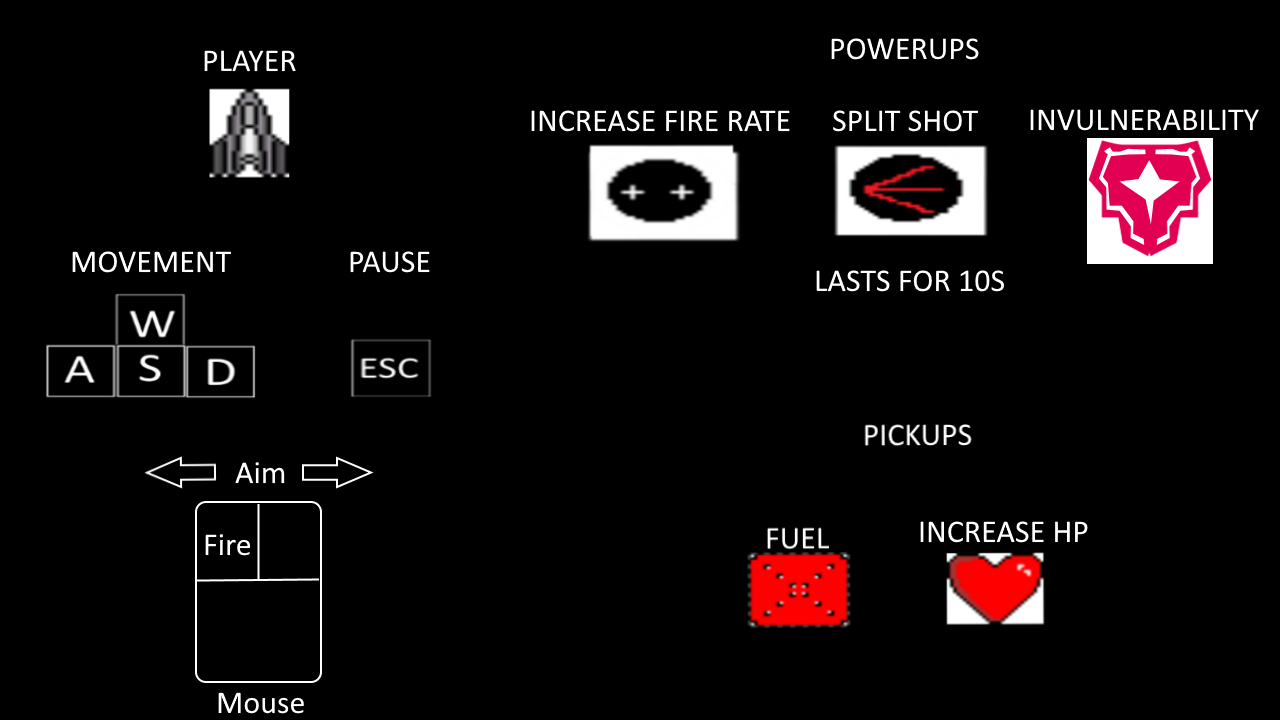
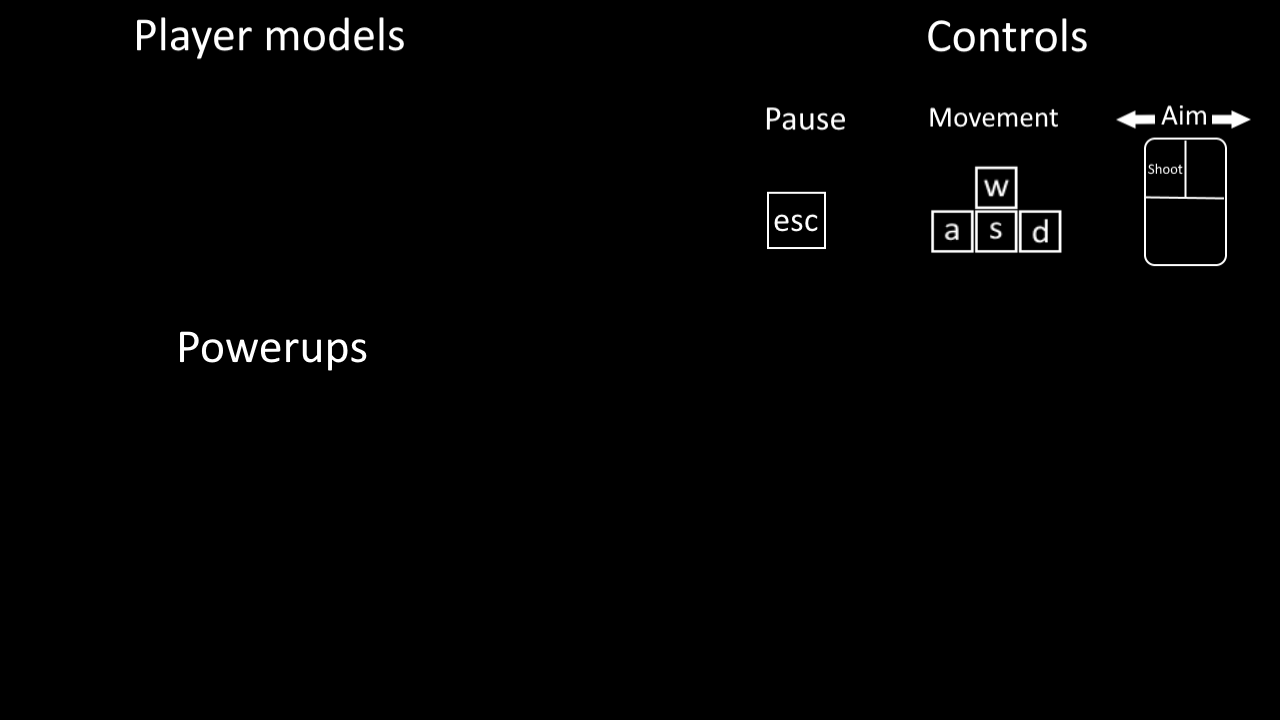
some file renaming and redesigning page1 of help

diff --git a/src/asteroids/help.c b/src/asteroids/help.c
@@ -31,10 +31,13 @@
 #define respawnTimer 2
 #define FIRST_PAGE 0
 #define LAST_PAGE 5
-
+#define MODEL_COUNT 6
+#define POWERUP_COUNT 5
 Help_screen screen;
 
 CP_Image Page_Image[LAST_PAGE];
+CP_Image playerModel[MODEL_COUNT];
+CP_Image powerupModel[POWERUP_COUNT];
 
 CP_Image Display;
 
@@ -60,6 +63,20 @@ void Asteroids_Help_Screen_Init(void)
 		char path[100];
 		sprintf_s(path, 100, "./Assets/Control_screen%d.png", i);
 		Page_Image[i] = CP_Image_Load(path);
+	}
+
+	for (int i = 0; i < MODEL_COUNT; i++)
+	{
+		char spritePath[100];
+		sprintf_s(spritePath, 100, "./Assets/Spaceship%d.png", i +1);
+		playerModel[i] = CP_Image_Load(spritePath);
+	}
+
+	for (unsigned int i = 0; i < POWERUP_COUNT; i++)
+	{
+		char spritePath[100];
+		sprintf_s(spritePath, 100, "./Assets/powerup_sprite%d.png", i + 1);
+		powerupModel[i] = CP_Image_Load(spritePath);
 	}
 
 	Display = CP_Image_Load("./Assets/newasteroids.png");
@@ -132,37 +149,61 @@ void Asteroids_Draw_Screen_Page(void)
 	if (screen.overlay < LAST_PAGE -1)
 		Asteroids_Button_Update(&NextBtn);
 
-	Asteroids_Help_Draw_Obstacle_Screen();
-	Asteroids_Help_Draw_FinalBoss_Screen();
+
+	switch (screen.overlay)
+	{
+	case CONTROLS:
+		Asteroids_Help_Draw_Controls_Screen();
+		break;
+	case OBSTACLES:
+		Asteroids_Help_Draw_Obstacle_Screen();
+		break;
+	case FINALBOSS:
+		Asteroids_Help_Draw_FinalBoss_Screen();
+		break;
+	default:
+		break;
+	}
 }
 void Asteroids_Help_Draw_Obstacle_Screen(void)
 {
-	if (screen.overlay == OBSTACLES)
+	if (Blackhole.active == false)
 	{
-		if (Blackhole.active == false)
-		{
-			Asteroids_Obstacle_Spawn_Tutorial(&Blackhole, ASTEROIDS_OBSTACLE_BLACKHOLE_SPEED, ASTEROIDS_OBSTACLE_BLACKHOLE_WIDTH,
-			ASTEROIDS_OBSTACLE_BLACKHOLE_WIDTH, CP_Vector_Set(0, (float)(WIN_HEIGHT / 3) - ASTEROIDS_OBSTACLE_BLACKHOLE_WIDTH));
-			Blackhole.Collider2.diameter = Blackhole.width;
-		}
-		if (GammaRay.active == false)
-		{
-			Asteroids_Obstacle_Spawn_Tutorial(&GammaRay, ASTEROIDS_OBSTACLE_GAMMARAY_SPEED, ASTEROIDS_OBSTACLE_GAMARAY_HEIGHT,
-				(float)(WIN_WIDTH / 4), CP_Vector_Set(0, (float)(WIN_HEIGHT / 3) + ASTEROIDS_OBSTACLE_GAMARAY_HEIGHT));
-			GammaRay.Collider.height = GammaRay.height;
-			GammaRay.Collider.width = GammaRay.width;
-		}
+		Asteroids_Obstacle_Spawn_Tutorial(&Blackhole, ASTEROIDS_OBSTACLE_BLACKHOLE_SPEED, ASTEROIDS_OBSTACLE_BLACKHOLE_WIDTH,
+		ASTEROIDS_OBSTACLE_BLACKHOLE_WIDTH, CP_Vector_Set(0, (float)(WIN_HEIGHT / 3) - ASTEROIDS_OBSTACLE_BLACKHOLE_WIDTH));
+		Blackhole.Collider2.diameter = Blackhole.width;
+	}
+	if (GammaRay.active == false)
+	{
+		Asteroids_Obstacle_Spawn_Tutorial(&GammaRay, ASTEROIDS_OBSTACLE_GAMMARAY_SPEED, ASTEROIDS_OBSTACLE_GAMARAY_HEIGHT,
+			(float)(WIN_WIDTH / 4), CP_Vector_Set(0, (float)(WIN_HEIGHT / 3) + ASTEROIDS_OBSTACLE_GAMARAY_HEIGHT));
+		GammaRay.Collider.height = GammaRay.height;
+		GammaRay.Collider.width = GammaRay.width;
+	}
 
-		Asteroids_Help_Update_Obstacle_Pos(&Blackhole, CP_System_GetDt());
-		Asteroids_Help_Update_Obstacle_Pos(&GammaRay, CP_System_GetDt());
-		Asteroids_Help_Update_Enemies();
-		particle_update();
-		Asteroids_Particle_Draw_Dot();
+	Asteroids_Help_Update_Obstacle_Pos(&Blackhole, CP_System_GetDt());
+	Asteroids_Help_Update_Obstacle_Pos(&GammaRay, CP_System_GetDt());
+	Asteroids_Help_Update_Enemies();
+	particle_update();
+	Asteroids_Particle_Draw_Dot();
+	Asteroids_Draw_Obstacle(&Blackhole);
+	Asteroids_Draw_Obstacle(&GammaRay);
+	Asteroids_Help_Sreen_Draw_Warning();
+	Asteroids_Help_Menu_Spawn_Static_Enemies();
+}
 
-		Asteroids_Draw_Obstacle(&Blackhole);
-		Asteroids_Draw_Obstacle(&GammaRay);
-		Asteroids_Help_Sreen_Draw_Warning();
-		Asteroids_Help_Menu_Spawn_Static_Enemies();
+void Asteroids_Help_Draw_Controls_Screen(void)
+{
+	static float rotation = 0;
+	static float rotation_rate = 20.0f;
+	rotation += (rotation_rate * CP_System_GetDt());
+	for (int i = 0; i < MODEL_COUNT; i++)
+	{
+		CP_Image_DrawAdvanced(playerModel[i], 50.0f + (125.0f * i), 150.0f, 100, 100, 255, rotation);
+	}
+	for (int i = 0; i < POWERUP_COUNT; i++)
+	{
+		CP_Image_DrawAdvanced(powerupModel[i], 100.0f + (75.0f * i), 500.0f, 50, 50, 255, rotation);
 	}
 }
 
@@ -184,8 +225,7 @@ void Asteroids_Help_Update_Enemies(void)
 
 void Asteroids_Help_Draw_FinalBoss_Screen(void)
 {
-	if (screen.overlay == FINALBOSS)
-		Asteroids_Help_Draw_FinalBoss_Spawn_Animation();
+	Asteroids_Help_Draw_FinalBoss_Spawn_Animation();
 }
 void Asteroids_Help_Screen_IncreasePageNo(void)
 {

diff --git a/src/asteroids/powerups.c b/src/asteroids/powerups.c
@@ -59,14 +59,14 @@ void Asteroids_Init_Powerups(void) //Initialize variables
 	bullet_split = false;
 	BPM = false;
 
-	Powerup_Bulletsplit_Sprite = CP_Image_Load("./Assets/Powerup_Bullet_Split_Sprite.png");
-	Powerup_Recover_Hp_Sprite = CP_Image_Load("./Assets/Powerup_RecoverHealth_Sprite.png");
-	Powerup_Invulnerability_Sprite = CP_Image_Load("./Assets/Powerup_Invunerability_Sprite.png");
-	Powerup_Increase_BPM_Sprite = CP_Image_Load("./Assets/Powerup_Shootfaster_Sprite.png");
-	Powerup_Fuel_Pickup_Sprite = CP_Image_Load("./Assets/Powerup_Fuel_Pickup_Sprite.png");
+	Powerup_Bulletsplit_Sprite = CP_Image_Load("./Assets/powerup_sprite1.png");
+	Powerup_Recover_Hp_Sprite = CP_Image_Load("./Assets/powerup_sprite2.png");
+	Powerup_Invulnerability_Sprite = CP_Image_Load("./Assets/powerup_sprite3.png");
+	Powerup_Increase_BPM_Sprite = CP_Image_Load("./Assets/powerup_sprite4.png");
+	Powerup_Fuel_Pickup_Sprite = CP_Image_Load("./Assets/powerup_sprite5.png");
 
 
-	for (int i = 0; i < POWERUP_MAX_SIZE; i++) //initialize to prevent getting rubbish values
+	for (int i = 0; i < POWERUP_MAX_SIZE; i++)
 	{
 		powerup_pool[i].pos = CP_Vector_Zero();
 		powerup_pool[i].movement_Vel = CP_Vector_Zero();

diff --git a/src/asteroids/help.h b/src/asteroids/help.h
@@ -31,6 +31,8 @@ void Asteroids_Help_Draw_Obstacle_Screen(void);
 void Asteroids_Help_Draw_FinalBoss_Screen(void);
 void Asteroids_Help_Draw_FinalBoss_Spawn_Animation(void);
 
+void Asteroids_Help_Draw_Controls_Screen(void);
+
 void Asteroids_Help_Screen_IncreasePageNo(void);
 void Asteroids_Help_Screen_DecreasePageNo(void);
 void Asteroids_Help_Sreen_Draw_Warning(void);

diff --git a/src/asteroids/init.c b/src/asteroids/init.c
@@ -14,7 +14,7 @@
 void Asteroids_Menu_Settings_Setup(int win_width, int win_height)
 {
 	CP_System_SetWindowSize(win_width, win_height);
-	CP_System_Fullscreen();
+	//CP_System_Fullscreen();
 
 	CP_Settings_ImageMode(CP_POSITION_CENTER);
 	CP_Settings_ImageWrapMode(CP_IMAGE_WRAP_CLAMP);
